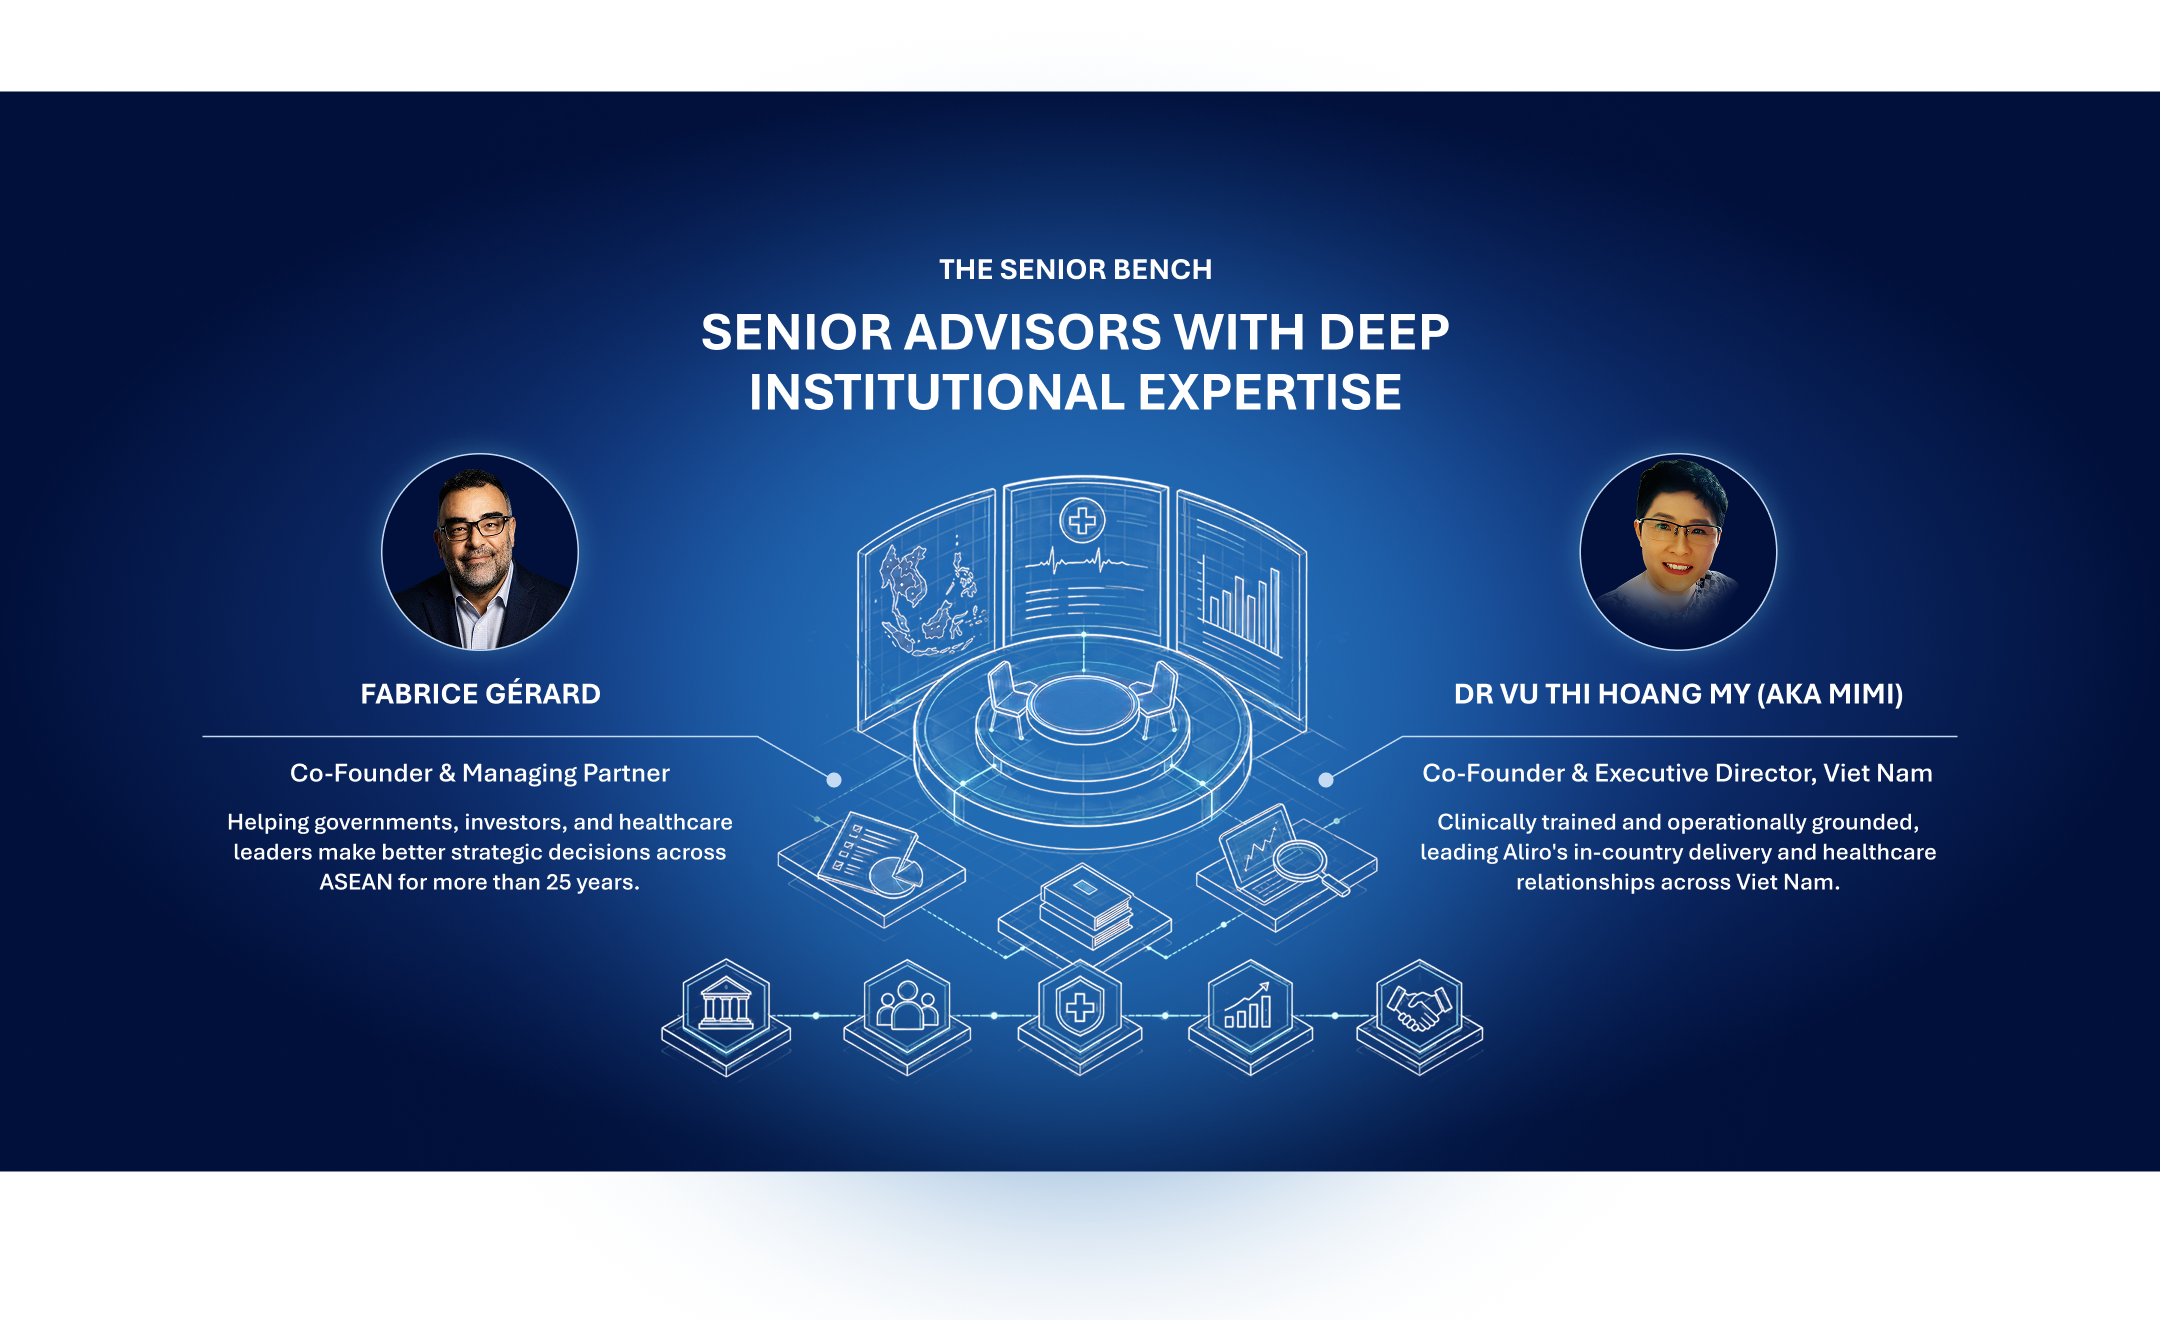
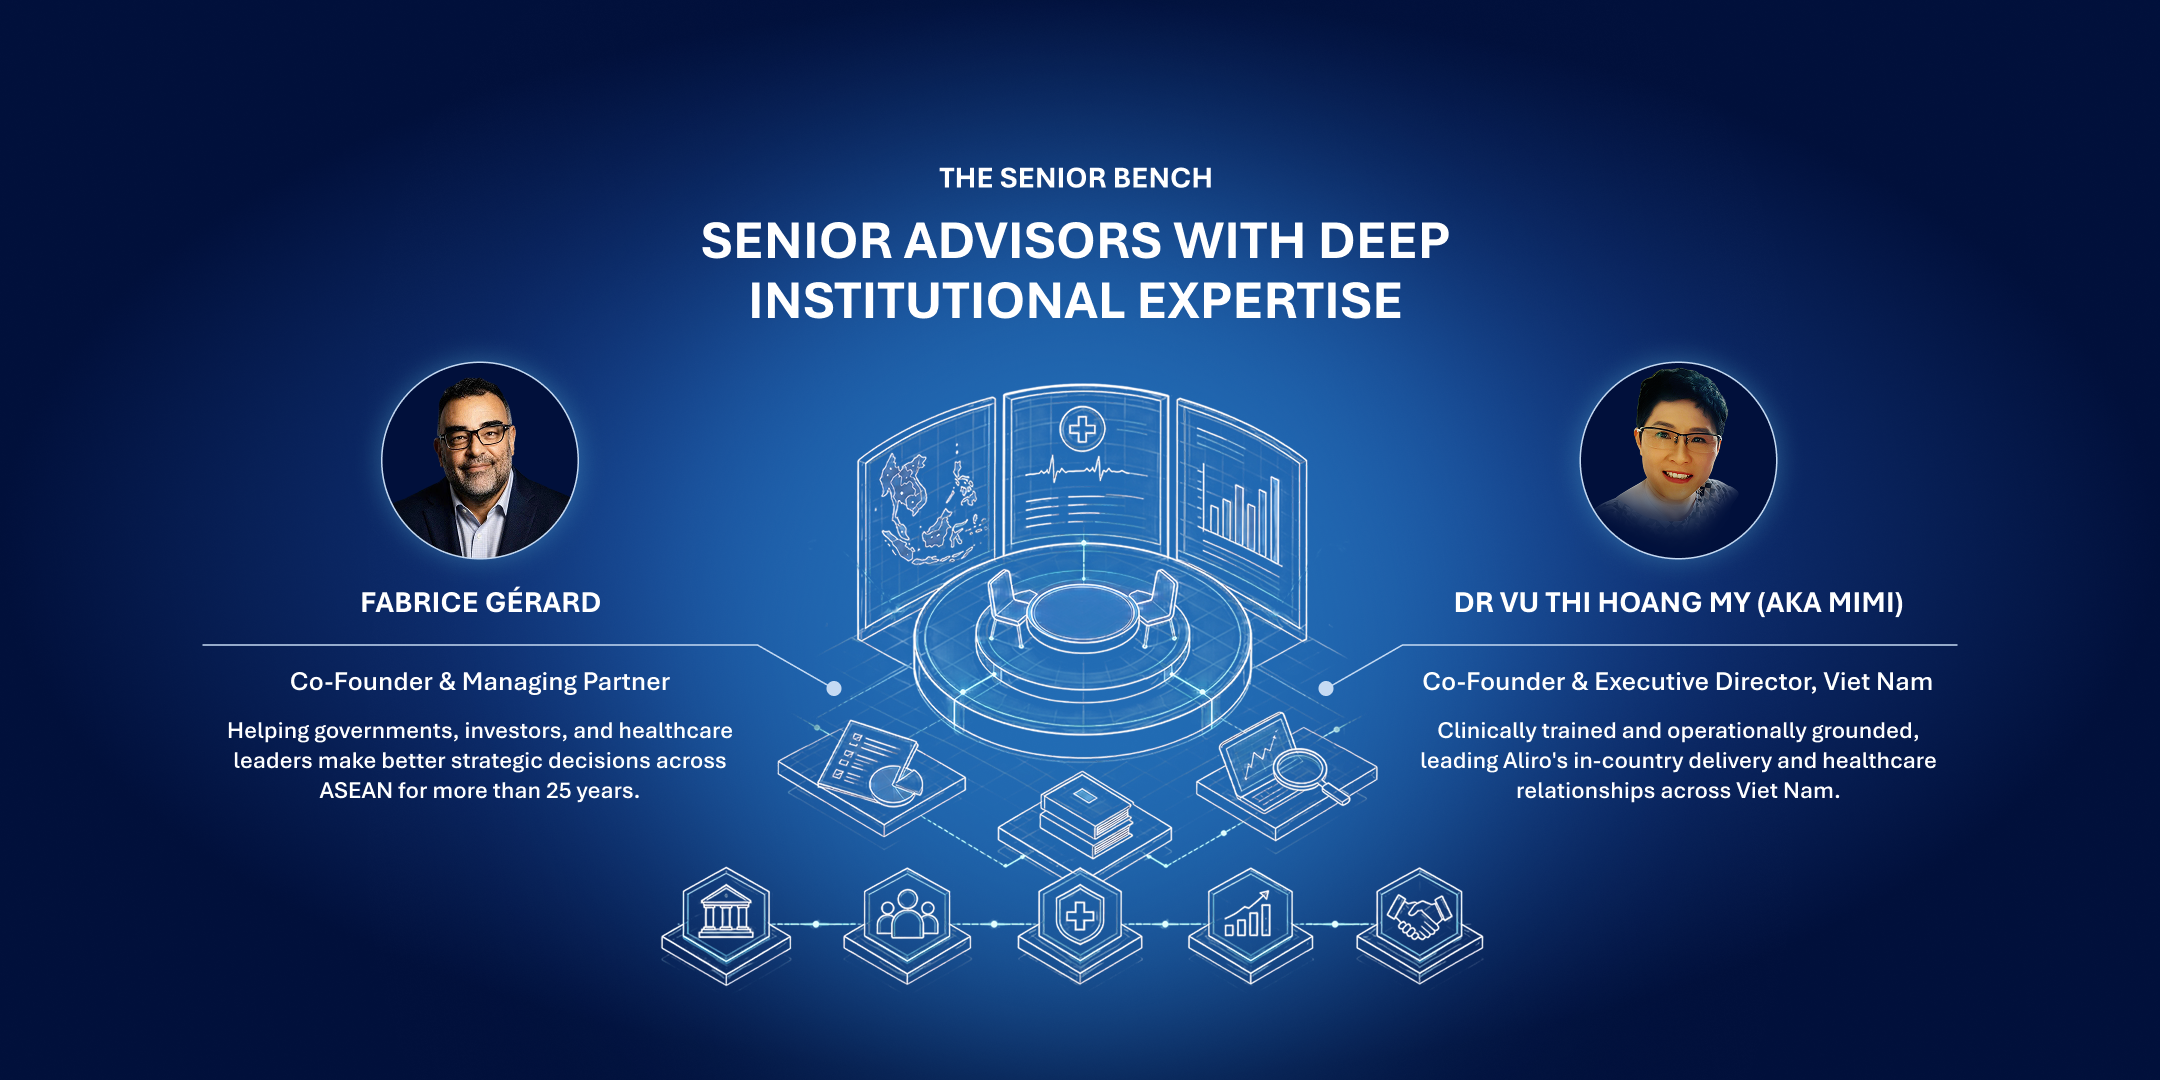
up

diff --git a/css/mockup-layout.css b/css/mockup-layout.css
@@ -1,6 +1,6 @@
 /* ==========================================================================
    Generic Mockup Preview Layout (Full-Page Slide Image View)
-   Full-Width & Full-Height Responsive Display
+   Pixel-Perfect Aspect Ratio Fitting (object-fit: contain)
    ========================================================================== */
 
 /* Mockup Slide Container - Clean White Default */
@@ -10,7 +10,6 @@
   display: flex;
   align-items: center;
   justify-content: center;
-  width: 100%;
   width: 100vw;
   height: 100vh;
   height: 100dvh;
@@ -30,14 +29,15 @@
   background-color: #ffffff;
 }
 
-/* Mockup Image - Full Width & Full Screen Cover */
+/* Mockup Image - Always Fit 100% Without Cropping Content */
 .mockup-img {
   width: 100%;
   height: 100%;
-  min-width: 100%;
-  min-height: 100%;
-  object-fit: cover;
-  object-position: center top;
+  max-width: 100vw;
+  max-height: 100vh;
+  max-height: 100dvh;
+  object-fit: contain;
+  object-position: center center;
   display: block;
   user-select: none;
   -webkit-user-drag: none;

diff --git a/css/pages/about/about-layout.css b/css/pages/about/about-layout.css
@@ -1,6 +1,6 @@
 /* ==========================================================================
    About Us Page Layout (Simplified Mockup Preview Mode)
-   Full-Width & Full-Height Responsive Display
+   Pixel-Perfect Aspect Ratio Fitting (object-fit: contain)
    ========================================================================== */
 
 /* Mockup Slide Container - Clean White Default */
@@ -10,7 +10,6 @@
   display: flex;
   align-items: center;
   justify-content: center;
-  width: 100%;
   width: 100vw;
   height: 100vh;
   height: 100dvh;
@@ -30,14 +29,15 @@
   background-color: #ffffff;
 }
 
-/* Mockup Image - Full Width & Full Screen Cover */
+/* Mockup Image - Always Fit 100% Without Cropping Content */
 .mockup-img {
   width: 100%;
   height: 100%;
-  min-width: 100%;
-  min-height: 100%;
-  object-fit: cover;
-  object-position: center top;
+  max-width: 100vw;
+  max-height: 100vh;
+  max-height: 100dvh;
+  object-fit: contain;
+  object-position: center center;
   display: block;
   user-select: none;
   -webkit-user-drag: none;
